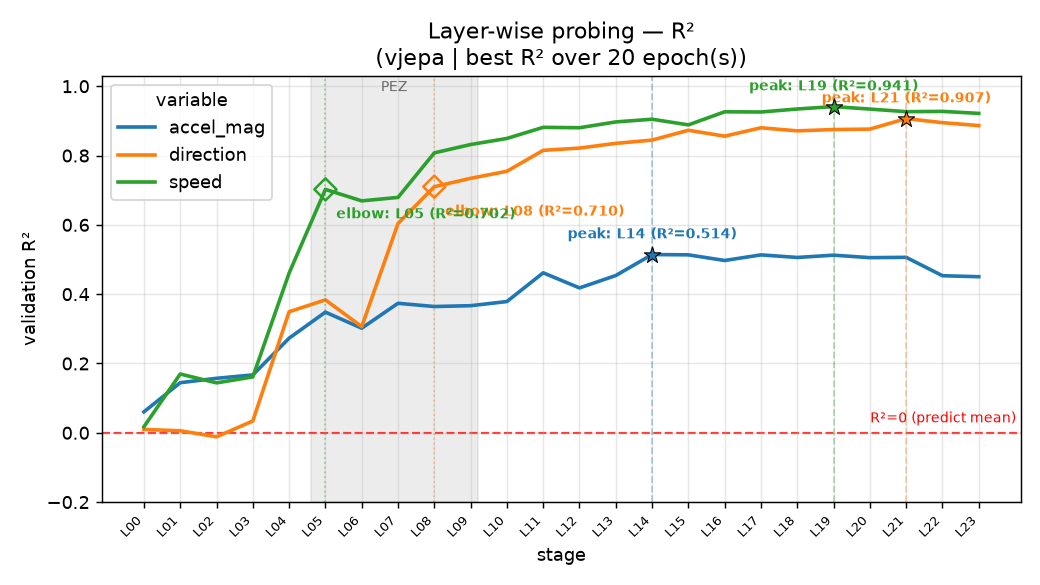
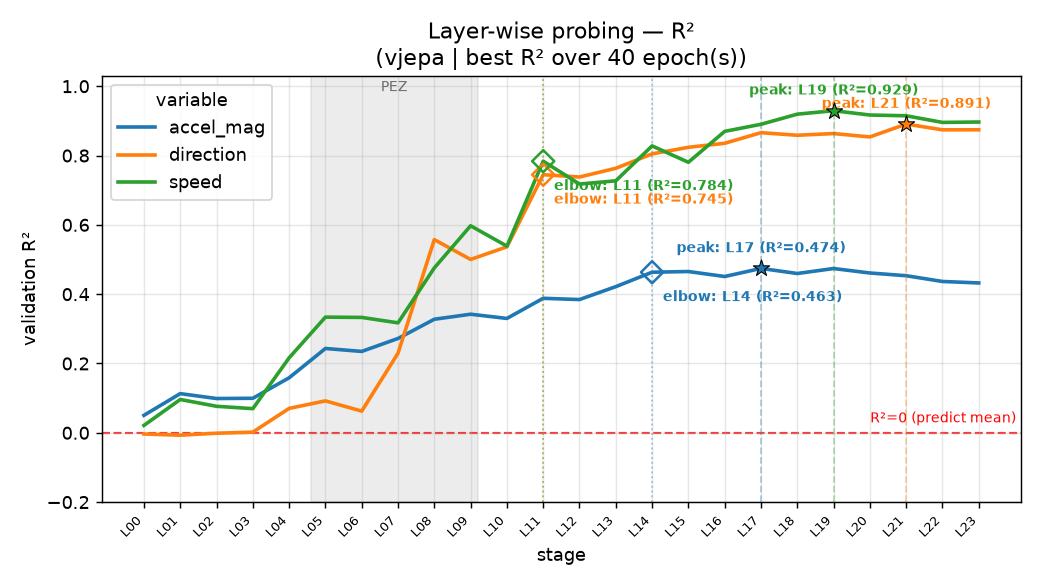
.

Changed region(s): [[0.1231, 0.1231, 0.9538, 0.7692], [0.5846, 0.0923, 0.6154, 0.1231]]

diff --git a/src/datasets/video_dataset.py b/src/datasets/video_dataset.py
@@ -51,6 +51,7 @@ def make_videodataset(
     persistent_workers=True,
     deterministic=True,
     log_dir=None,
+    uniform_sampling=False,
 ):
     dataset = VideoDataset(
         data_paths=data_paths,
@@ -67,6 +68,7 @@ def make_videodataset(
         filter_long_videos=filter_long_videos,
         shared_transform=shared_transform,
         transform=transform,
+        uniform_sampling=uniform_sampling,
     )
 
     log_dir = pathlib.Path(log_dir) if log_dir else None
@@ -137,10 +139,12 @@ class VideoDataset(torch.utils.data.Dataset):
         filter_short_videos=False,
         filter_long_videos=int(10**9),
         duration=None,  # duration in seconds
+        uniform_sampling=False,  # sample fpc frames evenly across the whole video (ignores frame_step)
     ):
         self.data_paths = data_paths
         self.datasets_weights = datasets_weights
         self.frame_step = frame_step
+        self.uniform_sampling = uniform_sampling
         self.num_clips = num_clips
         self.transform = transform
         self.shared_transform = shared_transform
@@ -326,6 +330,15 @@ class VideoDataset(torch.utils.data.Dataset):
             return [], None
 
         vr.seek(0)  # Go to start of video before sampling frames
+
+        # uniform_sampling: pick `fpc` frames evenly across the WHOLE video (length-agnostic;
+        # ignores frame_step / num_clips). Avoids the contiguous-window default that, when
+        # fpc*frame_step < len(video), only covers a sub-segment -> sub-patch motion per tubelet.
+        if getattr(self, "uniform_sampling", False):
+            n = len(vr)
+            indices = np.clip(np.linspace(0, n - 1, num=fpc).round(), 0, n - 1).astype(np.int64)
+            buffer = vr.get_batch(list(indices)).asnumpy()
+            return buffer, [indices]
 
         # Partition video into equal sized segments and sample each clip
         # from a different segment

diff --git a/evals/analysis_vlm/eval.py b/evals/analysis_vlm/eval.py
@@ -359,8 +359,16 @@ def main(args_eval, resume_preempt=False):
                 _name_set.add(name)
                 # `series` = plot line grouping (variable for regression, probe for classification).
                 # carry stage name explicitly so plotting doesn't re-parse `name`.
+                # plot series: variable for regression (probe for classification); when MULTIPLE
+                # probe specs exist (e.g. linear vs attentive), append the probe so each is its own curve.
+                if var_name is None:
+                    series = pname
+                elif len(probe_specs) > 1:
+                    series = f"{var_name}·{pname}"
+                else:
+                    series = var_name
                 heads.append(dict(name=name, layer=layer_val, layer_pos=stage_pos,
-                                  probe=pname, series=(var_name if var_name is not None else pname),
+                                  probe=pname, series=series,
                                   stage=stage_tag, module=module, tcols=var_cols))
                 head_opt_kwargs.append(_opt_kwargs(spec))
     head_names = [h["name"] for h in heads]